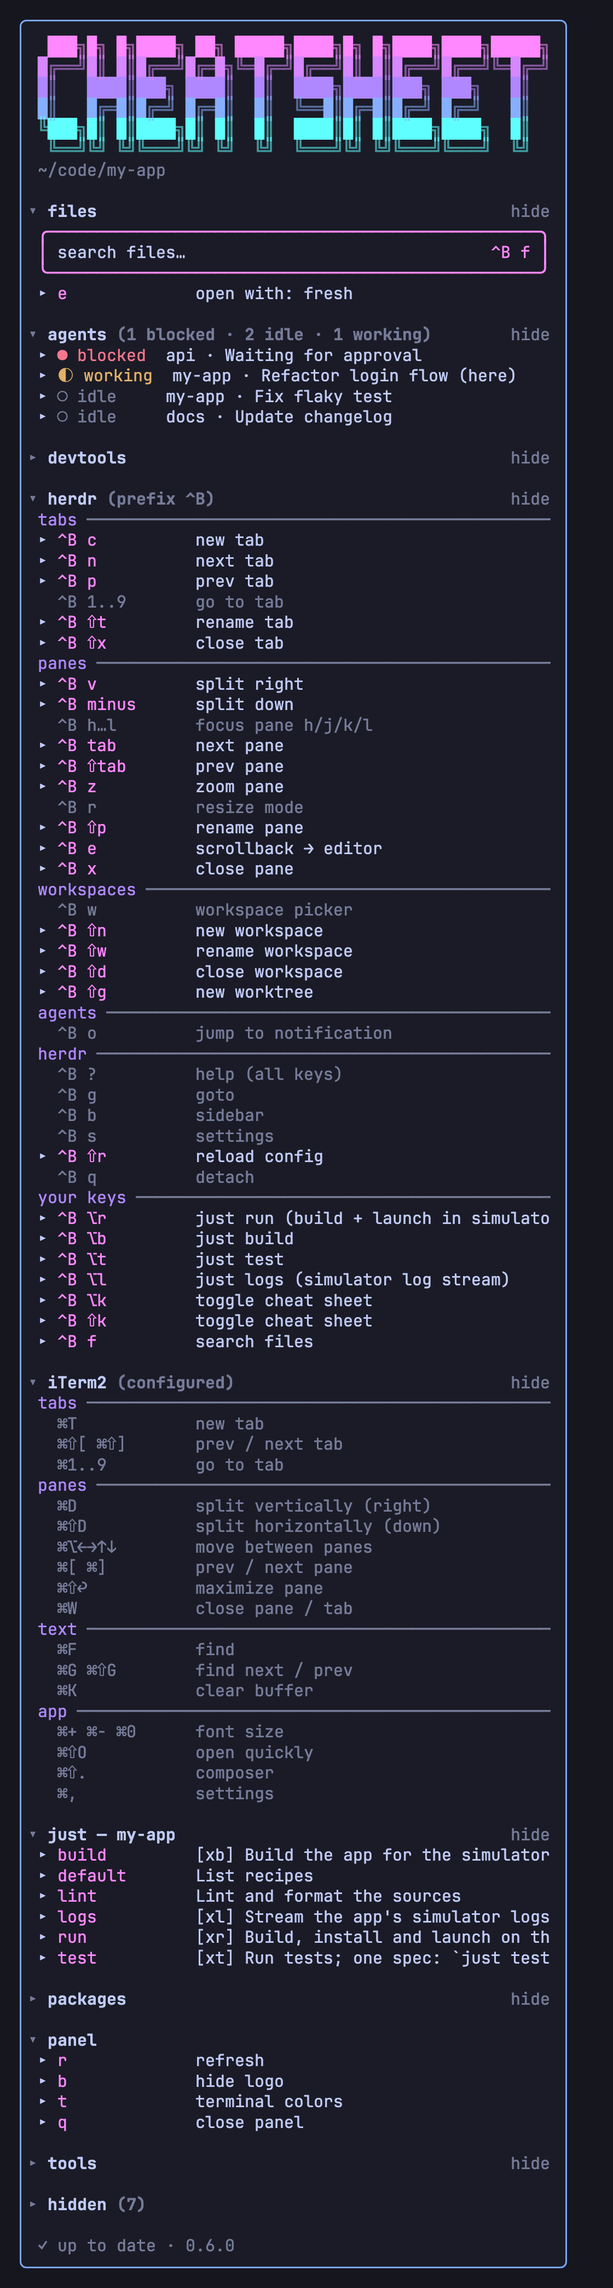
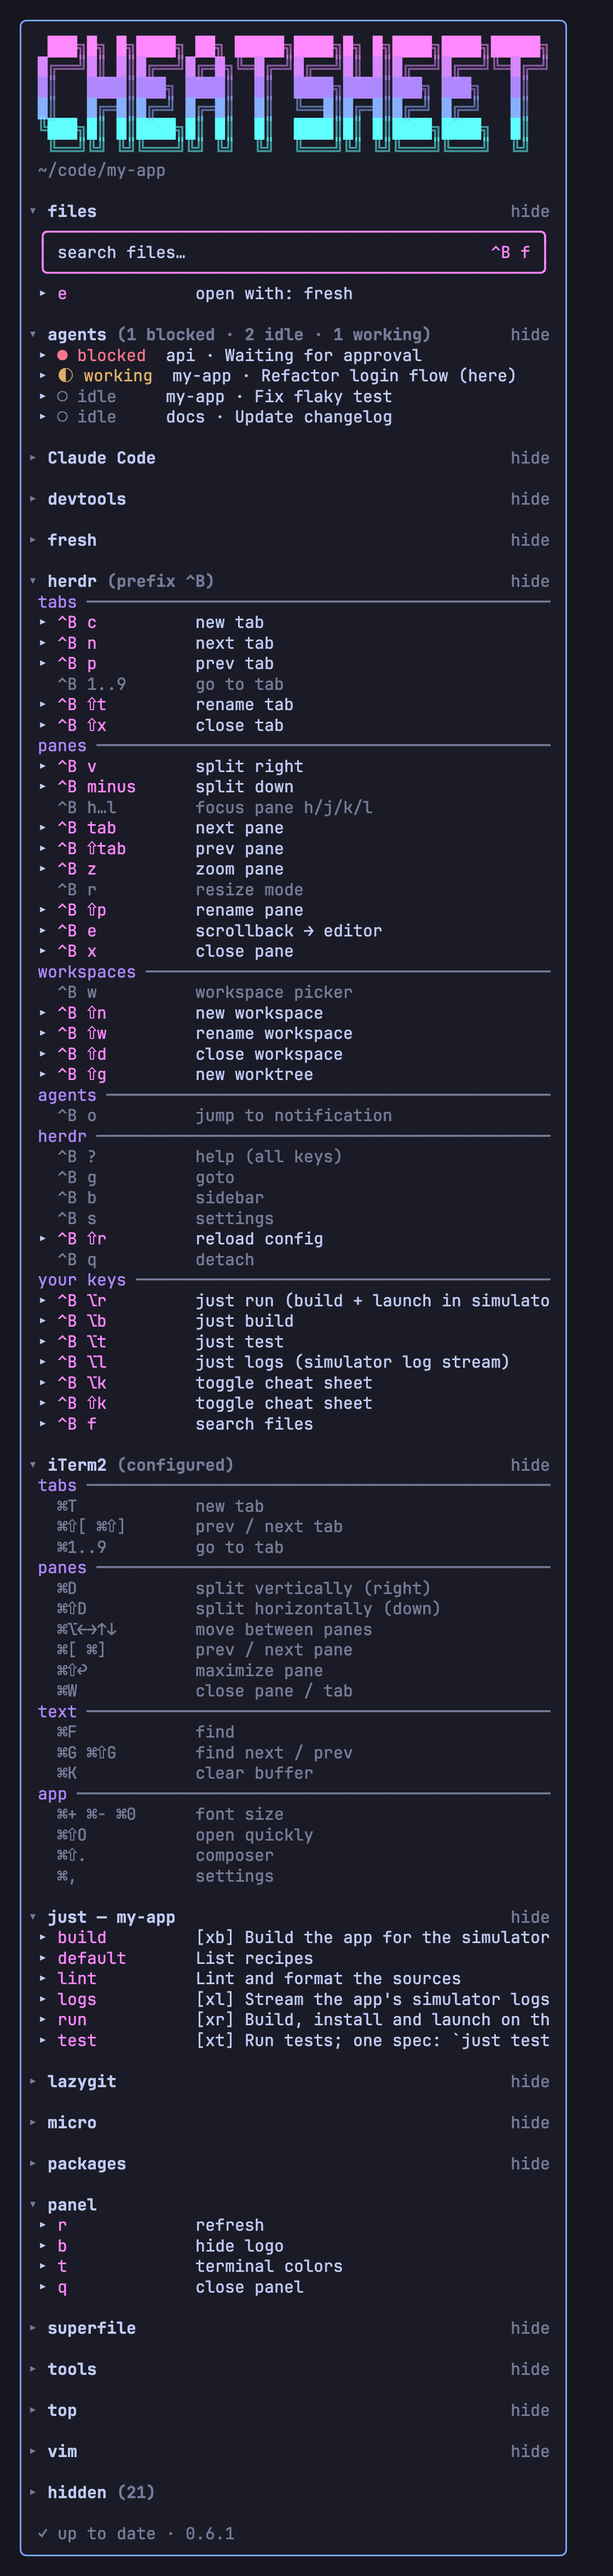
0.6.1: app, just and agents are regular sections
- Every installed app with a key list has a section, sorted with the
  others and collapsed until opened. While the app runs in the tab, its
  section moves to the top, opens and its keys go to the app again.
  Apps that aren't installed wait in the hidden list.
- A hidden app's section shows while the app runs in the tab and goes
  back to the hidden list when it quits.
- The just section is always listed ("no justfile in … or above"), and
  agents says "no agents running"; both can be hidden like any section.

diff --git a/README.md b/README.md
@@ -29,14 +29,14 @@ Below the logo, the file search always comes first, then the key sections of the
 
 - **Logo**: "CHEATSHEET" in the ANSI Shadow style with a retro gradient, and the focused project's path. Narrow panels get a compact logo.
 - **File search**: a search field for the project's files. See [Search and open files](#search-and-open-files).
-- **App keys**: while a known app runs in the tab, a section with its essential keys appears, and disappears when the app quits. Clicking a key sends it to the app: editors (Fresh, vim, Helix, micro, nano), file managers (superfile, yazi, ranger, nnn, lf, Midnight Commander), git and DevOps tools (lazygit, tig, gitui, lazydocker, k9s), system monitors (htop, btop, top) and AI agents (Claude Code, Codex). See [App keys](#app-keys).
-- **just recipes**: the recipes of the project you're working in, from the nearest `justfile`, with the shortcuts from an optional `.project.zsh` (`alias xb='just build'`) next to them. The section follows focus between projects and only appears when there is a justfile.
+- **App keys**: every installed app it knows has a section with its essential keys, collapsed until you open it. While the app runs in the tab, its section moves to the top and opens, and clicking a key sends it to the app: editors (Fresh, vim, Helix, micro, nano), file managers (superfile, yazi, ranger, nnn, lf, Midnight Commander), git and DevOps tools (lazygit, tig, gitui, lazydocker, k9s), system monitors (htop, btop, top) and AI agents (Claude Code, Codex). See [App keys](#app-keys).
+- **just recipes**: the recipes of the project you're working in, from the nearest `justfile`, with the shortcuts from an optional `.project.zsh` (`alias xb='just build'`) next to them. The section follows focus between projects; without a justfile it says so, and like any section it can be hidden.
 - **herdr keys**: herdr's defaults plus your `config.toml` overrides, grouped into tabs, panes, workspaces, agents and herdr itself, with your own `[[keys.command]]` bindings under "your keys".
 - **Tools**: ready-made commands for ffmpeg, tar, zip, gzip, xz, zstd, 7-Zip, bzip2 and brotli. See [Tools and devtools](#tools-devtools-and-packages).
 - **Devtools**: ready-made commands for iOS (xcodebuild, simulators, Swift Package Manager, CocoaPods), Android (Gradle, adb, emulator), Python, Ruby, Rust, Node.js, Docker, Git and Go.
 - **Packages**: install, remove, search, update and clean up with Homebrew, MacPorts, apt, dnf, pacman, zypper, snap and flatpak. Only the package managers available on your system show by default; the others wait in the hidden list.
 - **Terminal keys**: the default shortcuts of the terminal you're attached from (iTerm2, Terminal.app, Ghostty, WezTerm, kitty, Alacritty, Hyper, VS Code, GNOME Terminal, Konsole, foot, urxvt, xterm, Windows Terminal), detected automatically, with macOS and Linux variants. See [Terminal detection](#terminal-detection).
-- **Agents**: every agent across your workspaces with its status, blocked and finished ones first. `(here)` marks the ones in the current tab.
+- **Agents**: every agent across your workspaces with its status, blocked and finished ones first. `(here)` marks the ones in the current tab. Without agents the section says so.
 - **Panel controls**: refresh, hide or show the logo, switch colors, close.
 - **Update status**: `update to x.y.z` under the logo when a new version is out, otherwise `✓ up to date` at the bottom.
 
@@ -245,7 +245,7 @@ Every list contains defaults confirmed in the terminal's official documentation 
 
 ## App keys
 
-The panel asks herdr which processes run in the foreground of its tab's panes (`herdr pane process-info`), adds the ones herdr can't inspect (macOS's `top` runs as root) from `ps` by the pane's foreground process group, and shows a key section for each app it knows. Scripts run by an interpreter (ranger under Python) are matched by the script's name:
+The panel asks herdr which processes run in the foreground of its tab's panes (`herdr pane process-info`), adds the ones herdr can't inspect (macOS's `top` runs as root) from `ps` by the pane's foreground process group, and moves the section of each app it finds to the top, opened. Apps that aren't running keep a regular, collapsed section, sorted with the others; apps that aren't installed (none of their process names is on `PATH`) wait in the hidden list. Scripts run by an interpreter (ranger under Python) are matched by the script's name:
 
 | Kind | App | Process names | List |
 |---|---|---|---|
@@ -285,7 +285,7 @@ A click sends the row's key to the pane the app runs in, through `herdr pane sen
 - In vim and Helix every click sends Esc first, so a click never types into your file while insert mode is on.
 - Ranges like `1-5` stay dimmed.
 
-macOS ships UW Pico as `/usr/bin/nano`. Its keys differ from GNU nano's, so the nano section only appears for GNU nano (for example `brew install nano`).
+macOS ships UW Pico as `/usr/bin/nano`. Its keys differ from GNU nano's, so the nano section counts as not installed until GNU nano is (for example `brew install nano`).
 
 ## Tools, devtools and packages
 
